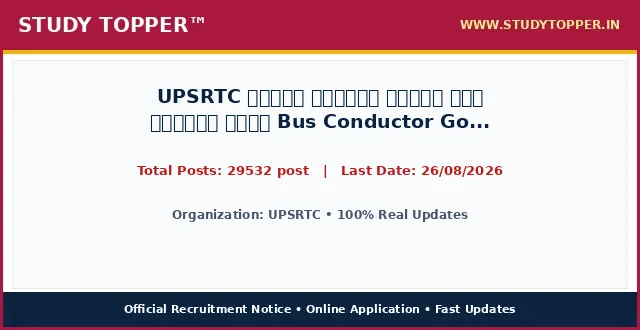
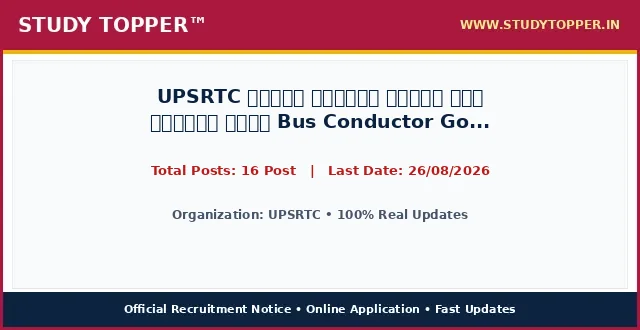
chore(lifecycle): daily auto-sort vacancies and update active dates

Changed region(s): [[0.2188, 0.4848, 0.7812, 0.5455]]

diff --git a/pages/upsrtc-bus-conductor-august26.html b/pages/upsrtc-bus-conductor-august26.html
@@ -987,8 +987,8 @@ ul.wp-block-latest-posts a:hover {
 <main class="site-main" id="main">
 <div class="gb-container gb-container-b39c368c">
 <h1 class="gb-headline gb-headline-e52a0102 gb-headline-text" style="font-size: 22px; font-weight: 700; color: #0000cd; text-align: left; margin: 8px 0 4px 0; line-height: 1.3; width: 100%; font-family: '-apple-system, BlinkMacSystemFont, 'Segoe UI', Roboto, 'Helvetica Neue', Arial, sans-serif', Times, serif, Hind, sans-serif;">UPSRTC उत्तर प्रदेश राज्य सड़क परिवहन निगम Bus Conductor Gonda, Bahraich, Balrampur Outsourcing Recruitment Online Form 2026</h1>
-<div class="gb-container gb-container-659bd175"><p style="color: #cd0808; font-weight: 700; font-size: 15px; margin: 2px 0 7px 0; text-align: left; font-family: '-apple-system, BlinkMacSystemFont, 'Segoe UI', Roboto, 'Helvetica Neue', Arial, sans-serif', Times, serif, Hind, sans-serif;">Post Date: August 22, 2026 11:48 AM</p></div>
-<p class="gb-headline gb-headline-550ae316 short_Details gb-headline-text" style="width: 100%; max-width: 100%; font-size: 16.8px; line-height: 1.55; color: #000000; text-align: justify; text-justify: inter-word; margin: 8px 0 14px 0; display: block; font-family: '-apple-system, BlinkMacSystemFont, 'Segoe UI', Roboto, 'Helvetica Neue', Arial, sans-serif', Times, serif, Hind, sans-serif;"><strong style="color: #0000cd;">UPSRTC</strong> has officially published the recruitment notice <strong style="color: #cd0808;">UPSRTC उत्तर प्रदेश राज्य सड़क परिवहन निगम Bus Conductor Gonda, Bahraich, Balrampur Outsourcing Recruitment Online Form 2026</strong> under notification number Official Advt 2026. Online applications are invited for 29532 post across multiple departments and cadre positions. Interested candidates possessing the requisite educational qualifications and falling between 18 Years to 40 Years can complete their online registration before the application deadline of 26/08/2026. Applicants should read the eligibility criteria, category reservation rules, and exam scheme thoroughly before submitting applications.</p>
+<div class="gb-container gb-container-659bd175"><p style="color: #cd0808; font-weight: 700; font-size: 15px; margin: 2px 0 7px 0; text-align: left; font-family: '-apple-system, BlinkMacSystemFont, 'Segoe UI', Roboto, 'Helvetica Neue', Arial, sans-serif', Times, serif, Hind, sans-serif;">Post Date: August 22, 2026 12:37 PM</p></div>
+<p class="gb-headline gb-headline-550ae316 short_Details gb-headline-text" style="width: 100%; max-width: 100%; font-size: 16.8px; line-height: 1.55; color: #000000; text-align: justify; text-justify: inter-word; margin: 8px 0 14px 0; display: block; font-family: '-apple-system, BlinkMacSystemFont, 'Segoe UI', Roboto, 'Helvetica Neue', Arial, sans-serif', Times, serif, Hind, sans-serif;"><strong style="color: #0000cd;">UPSRTC</strong> has officially published the recruitment notice <strong style="color: #cd0808;">UPSRTC उत्तर प्रदेश राज्य सड़क परिवहन निगम Bus Conductor Gonda, Bahraich, Balrampur Outsourcing Recruitment Online Form 2026</strong> under notification number 2026. Online applications are invited for 16 Post across multiple departments and cadre positions. Interested candidates possessing the requisite educational qualifications and falling between 18 Years to 40 Years can complete their online registration before the application deadline of 26/08/2026. Applicants should read the eligibility criteria, category reservation rules, and exam scheme thoroughly before submitting applications.</p>
 <div class="gb-container gb-container-9849916c"><div class="social-buttons-compact" style="display: flex; justify-content: flex-start; align-items: center; gap: 10px; margin: 10px 0 16px 0; width: 100%;"><a class="social-btn-compact wa" href="https://whatsapp.com/channel/0029Va9xyz" rel="noopener" style="background-color: #00d084; color: #ffffff; padding: 10px 18px; border-radius: 4px; text-decoration: none; font-weight: bold; font-size: 15.5px; display: inline-flex; align-items: center; justify-content: center; height: auto;" target="_blank">WhatsApp</a><a class="social-btn-compact tg" href="https://t.me/studytopperofficial" rel="noopener" style="background-color: #0088cc; color: #ffffff; padding: 10px 18px; border-radius: 4px; text-decoration: none; font-weight: bold; font-size: 15.5px; display: inline-flex; align-items: center; justify-content: center; height: auto;" target="_blank">Telegram</a></div></div>
 <div class="gb-container gb-container-f58e6ca1" style="border: 2px solid #5b032f; border-radius: 4px; overflow: hidden; margin: 15px 0 20px 0; background-color: #ffffff; width: 100%; box-sizing: border-box;">
 <h2 class="gb-headline gb-headline-2ca5a791 gb-headline-text" style="font-size: 16px; font-weight: 700; text-align: center; color: #ef0303; line-height: 1.3; padding: 6px 4px; margin: 0; background: #ffffff; font-family: '-apple-system, BlinkMacSystemFont, 'Segoe UI', Roboto, 'Helvetica Neue', Arial, sans-serif', Times, serif, Hind, sans-serif;">UPSRTC उत्तर प्रदेश राज्य सड़क परिवहन निगम Bus Conductor Gonda, Bahraich, Balrampur Outsourcing Recruitment Online Form 2026 &ndash; Latest Details &amp; Updates</h2>
@@ -1034,7 +1034,7 @@ ul.wp-block-latest-posts a:hover {
     <div style="background-color: #5b032f; color: #ffffff; padding: 8px 10px; font-size: 20px; font-weight: 700; text-align: center; font-family: '-apple-system, BlinkMacSystemFont, 'Segoe UI', Roboto, 'Helvetica Neue', Arial, sans-serif', Times, serif, Hind, sans-serif;">Application Fee</div>
     <div style="padding: 12px 14px; background-color: #ffffff;">
       <ul style="padding-left: 20px; margin: 0; list-style-type: disc; text-align: left; font-size: 14pt; line-height: 1.6; font-family: '-apple-system, BlinkMacSystemFont, 'Segoe UI', Roboto, 'Helvetica Neue', Arial, sans-serif', Times, serif, Hind, sans-serif;">
-        <li><span style="font-size: 14pt;">General / OBC / EWS : <strong>0/-</strong></span></li><li><span style="font-size: 14pt;">SC / ST : <strong>0/-</strong></span></li>
+        <li><span style="font-size: 14pt;">General / OBC / EWS : <strong>0</strong></span></li><li><span style="font-size: 14pt;">SC / ST : <strong>0</strong></span></li>
       </ul>
       <div style="margin-top: 10px; font-size: 14pt; line-height: 1.5; color: #000000; border-top: 1px dashed #ccc; padding-top: 8px; font-family: '-apple-system, BlinkMacSystemFont, 'Segoe UI', Roboto, 'Helvetica Neue', Arial, sans-serif', Times, serif, Hind, sans-serif;">
         <strong>Mode of Payment / Access:</strong> Online via Net Banking, Debit Card, Credit Card, UPI or Free Candidate Portal.
@@ -1047,10 +1047,10 @@ ul.wp-block-latest-posts a:hover {
 <div class="st-grid-row" style="display: flex; flex-wrap: wrap; width: 100%; border-top: 2px solid #5b032f; margin: 0; padding: 0; box-sizing: border-box;">
   <!-- Left Col: Age Limits -->
   <div class="st-col-half st-col-border-right" style="box-sizing: border-box; vertical-align: top;">
-    <div style="background-color: #046132; color: #ffffff; padding: 8px 10px; font-size: 17px; font-weight: 700; text-align: center; font-family: '-apple-system, BlinkMacSystemFont, 'Segoe UI', Roboto, 'Helvetica Neue', Arial, sans-serif', Times, serif, Hind, sans-serif;">UPSRTC : Age Limits As On 01 August 2026</div>
+    <div style="background-color: #046132; color: #ffffff; padding: 8px 10px; font-size: 17px; font-weight: 700; text-align: center; font-family: '-apple-system, BlinkMacSystemFont, 'Segoe UI', Roboto, 'Helvetica Neue', Arial, sans-serif', Times, serif, Hind, sans-serif;">UPSRTC : Age Limits As On 01/08/2026</div>
     <div style="padding: 12px 14px; background-color: #ffffff;">
       <ul style="padding-left: 20px; margin: 0; list-style-type: disc; text-align: left; font-size: 14pt; line-height: 1.6; font-family: '-apple-system, BlinkMacSystemFont, 'Segoe UI', Roboto, 'Helvetica Neue', Arial, sans-serif', Times, serif, Hind, sans-serif;">
-        <li><span style="font-size: 14pt;">Minimum Age : <strong>45 Years</strong></span></li>
+        <li><span style="font-size: 14pt;">Minimum Age : <strong>45 Years</strong></span></li><li><span style="font-size: 14pt;">Age Relaxation : <strong>Age Relaxation as per उत्तर प्रदेश राज्य सड़क परिवहन निगम Gonda, Bahraich, Balrampur UPSRTC Conductor Outsourcing Recruitment 2026 Rules.</strong></span></li>
       </ul>
     </div>
   </div>
@@ -1058,7 +1058,7 @@ ul.wp-block-latest-posts a:hover {
   <div class="st-col-half" style="box-sizing: border-box; vertical-align: top;">
     <div style="background-color: #f53c00; color: #ffffff; padding: 8px 10px; font-size: 20px; font-weight: 700; text-align: center; font-family: '-apple-system, BlinkMacSystemFont, 'Segoe UI', Roboto, 'Helvetica Neue', Arial, sans-serif', Times, serif, Hind, sans-serif;">Total Post</div>
     <div style="padding: 24px 10px; background-color: #ffffff; text-align: center;">
-      <span style="font-size: 28px; font-weight: 800; color: #000000; font-family: '-apple-system, BlinkMacSystemFont, 'Segoe UI', Roboto, 'Helvetica Neue', Arial, sans-serif', Times, serif, Hind, sans-serif;">29532 post</span>
+      <span style="font-size: 28px; font-weight: 800; color: #000000; font-family: '-apple-system, BlinkMacSystemFont, 'Segoe UI', Roboto, 'Helvetica Neue', Arial, sans-serif', Times, serif, Hind, sans-serif;">16 Post</span>
     </div>
   </div>
 </div>
@@ -1079,7 +1079,7 @@ ul.wp-block-latest-posts a:hover {
 <td style="width: 50%; height: 25px; text-align: center;"><span style="font-size: 14pt;"><strong>Category / Particulars</strong></span></td>
 <td style="width: 50%; height: 25px; text-align: center;"><span style="font-size: 14pt;"><strong>Count / Status</strong></span></td>
 </tr>
-
+<tr><td style="text-align: center;">District Name</td><td style="text-align: center; font-weight: normal; color: inherit;">UPSRTC Gonda, Bahraich, Balrampur Bus Conductor</td></tr><tr><td style="text-align: center;">Total Post</td><td style="text-align: center; font-weight: bold; color: #ff0000;">16</td></tr><tr><td style="text-align: center;">UPSRTC Bus Conductor Eligibility Details</td><td style="text-align: center; font-weight: normal; color: inherit;">12th (Intermediate) Pass from a recognized board, any stream. CCC Computer Certificate is Mandatory.</td></tr>
 </tbody>
 </table>
 <p>&nbsp;</p>
@@ -1091,12 +1091,13 @@ ul.wp-block-latest-posts a:hover {
 <th style="background-color: #f53c00; color: #ffffff; padding: 6px 10px; text-align: center; border: 1px solid #d35400; font-size: 15px; font-weight: 700; font-family: '-apple-system, BlinkMacSystemFont, 'Segoe UI', Roboto, 'Helvetica Neue', Arial, sans-serif', Times, serif, Hind, sans-serif;">Eligibility Criteria</th>
 </tr>
 <tr>
-<td style="padding: 8px; border: 1px solid #ddd; font-weight: bold;">UPSRTC Gonda, Bahraich, Balrampur Bus Conductor</td>
-<td style="padding: 8px; border: 1px solid #ddd; text-align: center; font-weight: bold;">16</td>
-<td style="padding: 8px; border: 1px solid #ddd;">12th (Intermediate) Pass from a recognized board, any stream. CCC Computer Certificate is Mandatory.</td>
+<td style="padding: 8px; border: 1px solid #ddd; font-weight: bold;">UPSRTC UPSRTC उत्तर प्रदेश राज्य सड़क परिवहन निगम Bus Conductor Gonda, Bahraich, Balrampur Outsourcing Recruitment Online Form 2026</td>
+<td style="padding: 8px; border: 1px solid #ddd; text-align: center; font-weight: bold;">16 Post</td>
+<td style="padding: 8px; border: 1px solid #ddd;">Passed relevant Educational Qualification from Any Recognized Board / University in India. Read full official notification for post-wise details.</td>
 </tr>
 </tbody>
 </table>
+<p>&nbsp;</p>
 <p>&nbsp;</p>
 
 
@@ -1155,42 +1156,66 @@ ul.wp-block-latest-posts a:hover {
 
 <tr style="border-bottom: 1px solid #000000; background-color: #fff37a;">
 <td style="width: 50%; padding: 14px 16px; border-right: 1px solid #000000; text-align: center;">
-<span style="font-size: 19px; font-weight: 800; color: #000000; font-family: '-apple-system, BlinkMacSystemFont, 'Segoe UI', Roboto, 'Helvetica Neue', Arial, sans-serif', Times, serif, Hind, sans-serif;">Apply Online Link</span>
+<span style="font-size: 19px; font-weight: 800; color: #000000; font-family: '-apple-system, BlinkMacSystemFont, 'Segoe UI', Roboto, 'Helvetica Neue', Arial, sans-serif', Times, serif, Hind, sans-serif;">Sarkari Result Android App</span>
 </td>
 <td style="width: 50%; padding: 14px 16px; text-align: center;">
-<span style="font-size: 20px; font-weight: 800; font-family: '-apple-system, BlinkMacSystemFont, 'Segoe UI', Roboto, 'Helvetica Neue', Arial, sans-serif', Times, serif, Hind, sans-serif;"><a href="" aria-label="Click Here for Apply Online Link - UPSRTC उत्तर प्रदेश राज्य सड़क परिवहन निगम Bus Conductor Gonda, Bahraich, Balrampur Outsourcing Recruitment Online Form 2026" rel="noopener noreferrer" style="color: #0000ef; font-weight: 800; text-decoration: none;" target="_blank">Click Here</a></span>
+<span style="font-size: 20px; font-weight: 800; font-family: '-apple-system, BlinkMacSystemFont, 'Segoe UI', Roboto, 'Helvetica Neue', Arial, sans-serif', Times, serif, Hind, sans-serif;"><a href="https://itunes.apple.com/us/app/sarkari-result/id1051363935?ls=1&mt=8" aria-label="Click Here for Sarkari Result Android App - UPSRTC उत्तर प्रदेश राज्य सड़क परिवहन निगम Bus Conductor Gonda, Bahraich, Balrampur Outsourcing Recruitment Online Form 2026" rel="noopener noreferrer" style="color: #0000ef; font-weight: 800; text-decoration: none;" target="_blank">Click Here</a></span>
 </td>
 </tr>
 <tr style="border-bottom: 1px solid #000000; background-color: #fff37a;">
 <td style="width: 50%; padding: 14px 16px; border-right: 1px solid #000000; text-align: center;">
-<span style="font-size: 19px; font-weight: 800; color: #000000; font-family: '-apple-system, BlinkMacSystemFont, 'Segoe UI', Roboto, 'Helvetica Neue', Arial, sans-serif', Times, serif, Hind, sans-serif;">Check Official Notification</span>
+<span style="font-size: 19px; font-weight: 800; color: #000000; font-family: '-apple-system, BlinkMacSystemFont, 'Segoe UI', Roboto, 'Helvetica Neue', Arial, sans-serif', Times, serif, Hind, sans-serif;">Apply Online</span>
 </td>
 <td style="width: 50%; padding: 14px 16px; text-align: center;">
-<span style="font-size: 20px; font-weight: 800; font-family: '-apple-system, BlinkMacSystemFont, 'Segoe UI', Roboto, 'Helvetica Neue', Arial, sans-serif', Times, serif, Hind, sans-serif;"><a href="" aria-label="Click Here for Check Official Notification - UPSRTC उत्तर प्रदेश राज्य सड़क परिवहन निगम Bus Conductor Gonda, Bahraich, Balrampur Outsourcing Recruitment Online Form 2026" rel="noopener noreferrer" style="color: #0000ef; font-weight: 800; text-decoration: none;" target="_blank">Click Here</a></span>
+<span style="font-size: 20px; font-weight: 800; font-family: '-apple-system, BlinkMacSystemFont, 'Segoe UI', Roboto, 'Helvetica Neue', Arial, sans-serif', Times, serif, Hind, sans-serif;"><a href="https://sewayojan.up.nic.in/IEP/Login.aspx" aria-label="Click Here for Apply Online - UPSRTC उत्तर प्रदेश राज्य सड़क परिवहन निगम Bus Conductor Gonda, Bahraich, Balrampur Outsourcing Recruitment Online Form 2026" rel="noopener noreferrer" style="color: #0000ef; font-weight: 800; text-decoration: none;" target="_blank">Click Here</a></span>
 </td>
 </tr>
 <tr style="border-bottom: 1px solid #000000; background-color: #fff37a;">
 <td style="width: 50%; padding: 14px 16px; border-right: 1px solid #000000; text-align: center;">
-<span style="font-size: 19px; font-weight: 800; color: #000000; font-family: '-apple-system, BlinkMacSystemFont, 'Segoe UI', Roboto, 'Helvetica Neue', Arial, sans-serif', Times, serif, Hind, sans-serif;">Photo / Sign Resizer Tool</span>
+<span style="font-size: 19px; font-weight: 800; color: #000000; font-family: '-apple-system, BlinkMacSystemFont, 'Segoe UI', Roboto, 'Helvetica Neue', Arial, sans-serif', Times, serif, Hind, sans-serif;">Download Notification</span>
 </td>
 <td style="width: 50%; padding: 14px 16px; text-align: center;">
-<span style="font-size: 20px; font-weight: 800; font-family: '-apple-system, BlinkMacSystemFont, 'Segoe UI', Roboto, 'Helvetica Neue', Arial, sans-serif', Times, serif, Hind, sans-serif;"><a href="https://indtool.in" aria-label="Click Here for Photo / Sign Resizer Tool - UPSRTC उत्तर प्रदेश राज्य सड़क परिवहन निगम Bus Conductor Gonda, Bahraich, Balrampur Outsourcing Recruitment Online Form 2026" rel="noopener noreferrer" style="color: #0000ef; font-weight: 800; text-decoration: none;" target="_blank">Click Here</a></span>
+<span style="font-size: 20px; font-weight: 800; font-family: '-apple-system, BlinkMacSystemFont, 'Segoe UI', Roboto, 'Helvetica Neue', Arial, sans-serif', Times, serif, Hind, sans-serif;"><a href="https://doc.sarkariresults.org.in/Conductor_18August2026.pdf" aria-label="Click Here for Download Notification - UPSRTC उत्तर प्रदेश राज्य सड़क परिवहन निगम Bus Conductor Gonda, Bahraich, Balrampur Outsourcing Recruitment Online Form 2026" rel="noopener noreferrer" style="color: #0000ef; font-weight: 800; text-decoration: none;" target="_blank">Click Here</a></span>
 </td>
 </tr>
 <tr style="border-bottom: 1px solid #000000; background-color: #fff37a;">
+<td style="width: 50%; padding: 14px 16px; border-right: 1px solid #000000; text-align: center;">
+<span style="font-size: 19px; font-weight: 800; color: #000000; font-family: '-apple-system, BlinkMacSystemFont, 'Segoe UI', Roboto, 'Helvetica Neue', Arial, sans-serif', Times, serif, Hind, sans-serif;">Find More Outsourcing Jobs</span>
+</td>
+<td style="width: 50%; padding: 14px 16px; text-align: center;">
+<span style="font-size: 20px; font-weight: 800; font-family: '-apple-system, BlinkMacSystemFont, 'Segoe UI', Roboto, 'Helvetica Neue', Arial, sans-serif', Times, serif, Hind, sans-serif;"><a href="https://www.sarkariresult.com/outsourcing/" aria-label="Click Here for Find More Outsourcing Jobs - UPSRTC उत्तर प्रदेश राज्य सड़क परिवहन निगम Bus Conductor Gonda, Bahraich, Balrampur Outsourcing Recruitment Online Form 2026" rel="noopener noreferrer" style="color: #0000ef; font-weight: 800; text-decoration: none;" target="_blank">Click Here</a></span>
+</td>
+</tr>
+<tr style="border-bottom: 1px solid #000000; background-color: #fff37a;">
+<td style="width: 50%; padding: 14px 16px; border-right: 1px solid #000000; text-align: center;">
+<span style="font-size: 19px; font-weight: 800; color: #000000; font-family: '-apple-system, BlinkMacSystemFont, 'Segoe UI', Roboto, 'Helvetica Neue', Arial, sans-serif', Times, serif, Hind, sans-serif;">Join Sarkari Result Channel</span>
+</td>
+<td style="width: 50%; padding: 14px 16px; text-align: center;">
+<span style="font-size: 20px; font-weight: 800; font-family: '-apple-system, BlinkMacSystemFont, 'Segoe UI', Roboto, 'Helvetica Neue', Arial, sans-serif', Times, serif, Hind, sans-serif;"><a href="https://t.me/SarkariResult2012" aria-label="Click Here for Join Sarkari Result Channel - UPSRTC उत्तर प्रदेश राज्य सड़क परिवहन निगम Bus Conductor Gonda, Bahraich, Balrampur Outsourcing Recruitment Online Form 2026" rel="noopener noreferrer" style="color: #0000ef; font-weight: 800; text-decoration: none;" target="_blank">Click Here</a></span>
+</td>
+</tr>
+<tr style="border-bottom: 1px solid #000000; background-color: #fff37a;">
+<td style="width: 50%; padding: 14px 16px; border-right: 1px solid #000000; text-align: center;">
+<span style="font-size: 19px; font-weight: 800; color: #000000; font-family: '-apple-system, BlinkMacSystemFont, 'Segoe UI', Roboto, 'Helvetica Neue', Arial, sans-serif', Times, serif, Hind, sans-serif;">Join Sarkari Result Channel</span>
+</td>
+<td style="width: 50%; padding: 14px 16px; text-align: center;">
+<span style="font-size: 20px; font-weight: 800; font-family: '-apple-system, BlinkMacSystemFont, 'Segoe UI', Roboto, 'Helvetica Neue', Arial, sans-serif', Times, serif, Hind, sans-serif;"><a href="https://whatsapp.com/channel/0029Va5IElwBlHpVBd6i5a18" aria-label="Click Here for Join Sarkari Result Channel - UPSRTC उत्तर प्रदेश राज्य सड़क परिवहन निगम Bus Conductor Gonda, Bahraich, Balrampur Outsourcing Recruitment Online Form 2026" rel="noopener noreferrer" style="color: #0000ef; font-weight: 800; text-decoration: none;" target="_blank">Click Here</a></span>
+</td>
+</tr>
+<tr style="border-bottom: 1px solid #000000; background-color: #fff37a;">
+<td style="width: 50%; padding: 14px 16px; border-right: 1px solid #000000; text-align: center;">
+<span style="font-size: 19px; font-weight: 800; color: #000000; font-family: '-apple-system, BlinkMacSystemFont, 'Segoe UI', Roboto, 'Helvetica Neue', Arial, sans-serif', Times, serif, Hind, sans-serif;">Official Website</span>
+</td>
+<td style="width: 50%; padding: 14px 16px; text-align: center;">
+<span style="font-size: 20px; font-weight: 800; font-family: '-apple-system, BlinkMacSystemFont, 'Segoe UI', Roboto, 'Helvetica Neue', Arial, sans-serif', Times, serif, Hind, sans-serif;"><a href="https://upsrtc.up.gov.in/" aria-label="Click Here for Official Website - UPSRTC उत्तर प्रदेश राज्य सड़क परिवहन निगम Bus Conductor Gonda, Bahraich, Balrampur Outsourcing Recruitment Online Form 2026" rel="noopener noreferrer" style="color: #0000ef; font-weight: 800; text-decoration: none;" target="_blank">Click Here</a></span>
+</td>
+</tr>
+<tr style=" background-color: #fff37a;">
 <td style="width: 50%; padding: 14px 16px; border-right: 1px solid #000000; text-align: center;">
 <span style="font-size: 19px; font-weight: 800; color: #000000; font-family: '-apple-system, BlinkMacSystemFont, 'Segoe UI', Roboto, 'Helvetica Neue', Arial, sans-serif', Times, serif, Hind, sans-serif;">Check Sarkari Result</span>
 </td>
 <td style="width: 50%; padding: 14px 16px; text-align: center;">
 <span style="font-size: 20px; font-weight: 800; font-family: '-apple-system, BlinkMacSystemFont, 'Segoe UI', Roboto, 'Helvetica Neue', Arial, sans-serif', Times, serif, Hind, sans-serif;"><a href="/" aria-label="Click Here for Check Sarkari Result - UPSRTC उत्तर प्रदेश राज्य सड़क परिवहन निगम Bus Conductor Gonda, Bahraich, Balrampur Outsourcing Recruitment Online Form 2026" rel="noopener noreferrer" style="color: #0000ef; font-weight: 800; text-decoration: none;" >Click Here</a></span>
-</td>
-</tr>
-<tr style=" background-color: #fff37a;">
-<td style="width: 50%; padding: 14px 16px; border-right: 1px solid #000000; text-align: center;">
-<span style="font-size: 19px; font-weight: 800; color: #000000; font-family: '-apple-system, BlinkMacSystemFont, 'Segoe UI', Roboto, 'Helvetica Neue', Arial, sans-serif', Times, serif, Hind, sans-serif;">UPSRTC Website</span>
-</td>
-<td style="width: 50%; padding: 14px 16px; text-align: center;">
-<span style="font-size: 20px; font-weight: 800; font-family: '-apple-system, BlinkMacSystemFont, 'Segoe UI', Roboto, 'Helvetica Neue', Arial, sans-serif', Times, serif, Hind, sans-serif;"><a href="" aria-label="Click Here for UPSRTC Website - UPSRTC उत्तर प्रदेश राज्य सड़क परिवहन निगम Bus Conductor Gonda, Bahraich, Balrampur Outsourcing Recruitment Online Form 2026" rel="noopener noreferrer" style="color: #0000ef; font-weight: 800; text-decoration: none;" target="_blank">Click Here</a></span>
 </td>
 </tr>
 </tbody>
@@ -1204,9 +1229,9 @@ ul.wp-block-latest-posts a:hover {
   <div style="font-size: 14.5px; line-height: 1.65; color: #222222;">
     <p style="margin: 0 0 4px 0;"><strong style="color: #000080;">Q1. What is the last date to apply for UPSRTC उत्तर प्रदेश राज्य सड़क परिवहन निगम Bus Conductor Gonda, Bahraich, Balrampur Outsourcing Recruitment Online Form 2026?</strong></p>
 <p style="margin: 0 0 16px 0; color: #333333; line-height: 1.6;">Ans. The last date for online submission of application is 26/08/2026.</p><p style="margin: 0 0 4px 0;"><strong style="color: #000080;">Q2. What is the age limit for UPSRTC उत्तर प्रदेश राज्य सड़क परिवहन निगम Bus Conductor Gonda, Bahraich, Balrampur Outsourcing Recruitment Online Form 2026?</strong></p>
-<p style="margin: 0 0 16px 0; color: #333333; line-height: 1.6;">Ans. Candidate age should generally be between 18 Years and 40 Years as on 01 August 2026. Age relaxation is applicable per rules.</p><p style="margin: 0 0 4px 0;"><strong style="color: #000080;">Q3. What is the application fee for UPSRTC उत्तर प्रदेश राज्य सड़क परिवहन निगम Bus Conductor Gonda, Bahraich, Balrampur Outsourcing Recruitment Online Form 2026?</strong></p>
-<p style="margin: 0 0 16px 0; color: #333333; line-height: 1.6;">Ans. Application fee varies by category (e.g., General/OBC: 0/-, SC/ST/PwD: Exempted).</p><p style="margin: 0 0 4px 0;"><strong style="color: #000080;">Q4. How many total posts are available in UPSRTC उत्तर प्रदेश राज्य सड़क परिवहन निगम Bus Conductor Gonda, Bahraich, Balrampur Outsourcing Recruitment Online Form 2026?</strong></p>
-<p style="margin: 0 0 16px 0; color: #333333; line-height: 1.6;">Ans. A total of 29532 post have been officially announced for this recruitment drive.</p><p style="margin: 0 0 4px 0;"><strong style="color: #000080;">Q5. How can I apply online for UPSRTC उत्तर प्रदेश राज्य सड़क परिवहन निगम Bus Conductor Gonda, Bahraich, Balrampur Outsourcing Recruitment Online Form 2026?</strong></p>
+<p style="margin: 0 0 16px 0; color: #333333; line-height: 1.6;">Ans. Candidate age should generally be between 18 Years and 40 Years as on 01/08/2026. Age relaxation is applicable per rules.</p><p style="margin: 0 0 4px 0;"><strong style="color: #000080;">Q3. What is the application fee for UPSRTC उत्तर प्रदेश राज्य सड़क परिवहन निगम Bus Conductor Gonda, Bahraich, Balrampur Outsourcing Recruitment Online Form 2026?</strong></p>
+<p style="margin: 0 0 16px 0; color: #333333; line-height: 1.6;">Ans. Application fee varies by category (e.g., General/OBC: 0, SC/ST/PwD: Exempted).</p><p style="margin: 0 0 4px 0;"><strong style="color: #000080;">Q4. How many total posts are available in UPSRTC उत्तर प्रदेश राज्य सड़क परिवहन निगम Bus Conductor Gonda, Bahraich, Balrampur Outsourcing Recruitment Online Form 2026?</strong></p>
+<p style="margin: 0 0 16px 0; color: #333333; line-height: 1.6;">Ans. A total of 16 Post have been officially announced for this recruitment drive.</p><p style="margin: 0 0 4px 0;"><strong style="color: #000080;">Q5. How can I apply online for UPSRTC उत्तर प्रदेश राज्य सड़क परिवहन निगम Bus Conductor Gonda, Bahraich, Balrampur Outsourcing Recruitment Online Form 2026?</strong></p>
 <p style="margin: 0 0 0 0; color: #333333; line-height: 1.6;">Ans. Eligible candidates can click the 'Apply Online' link in the Important Links table, register, fill details, resize photo/signature via indtool.in, and submit before 26/08/2026.</p>
   </div>
 </div>
